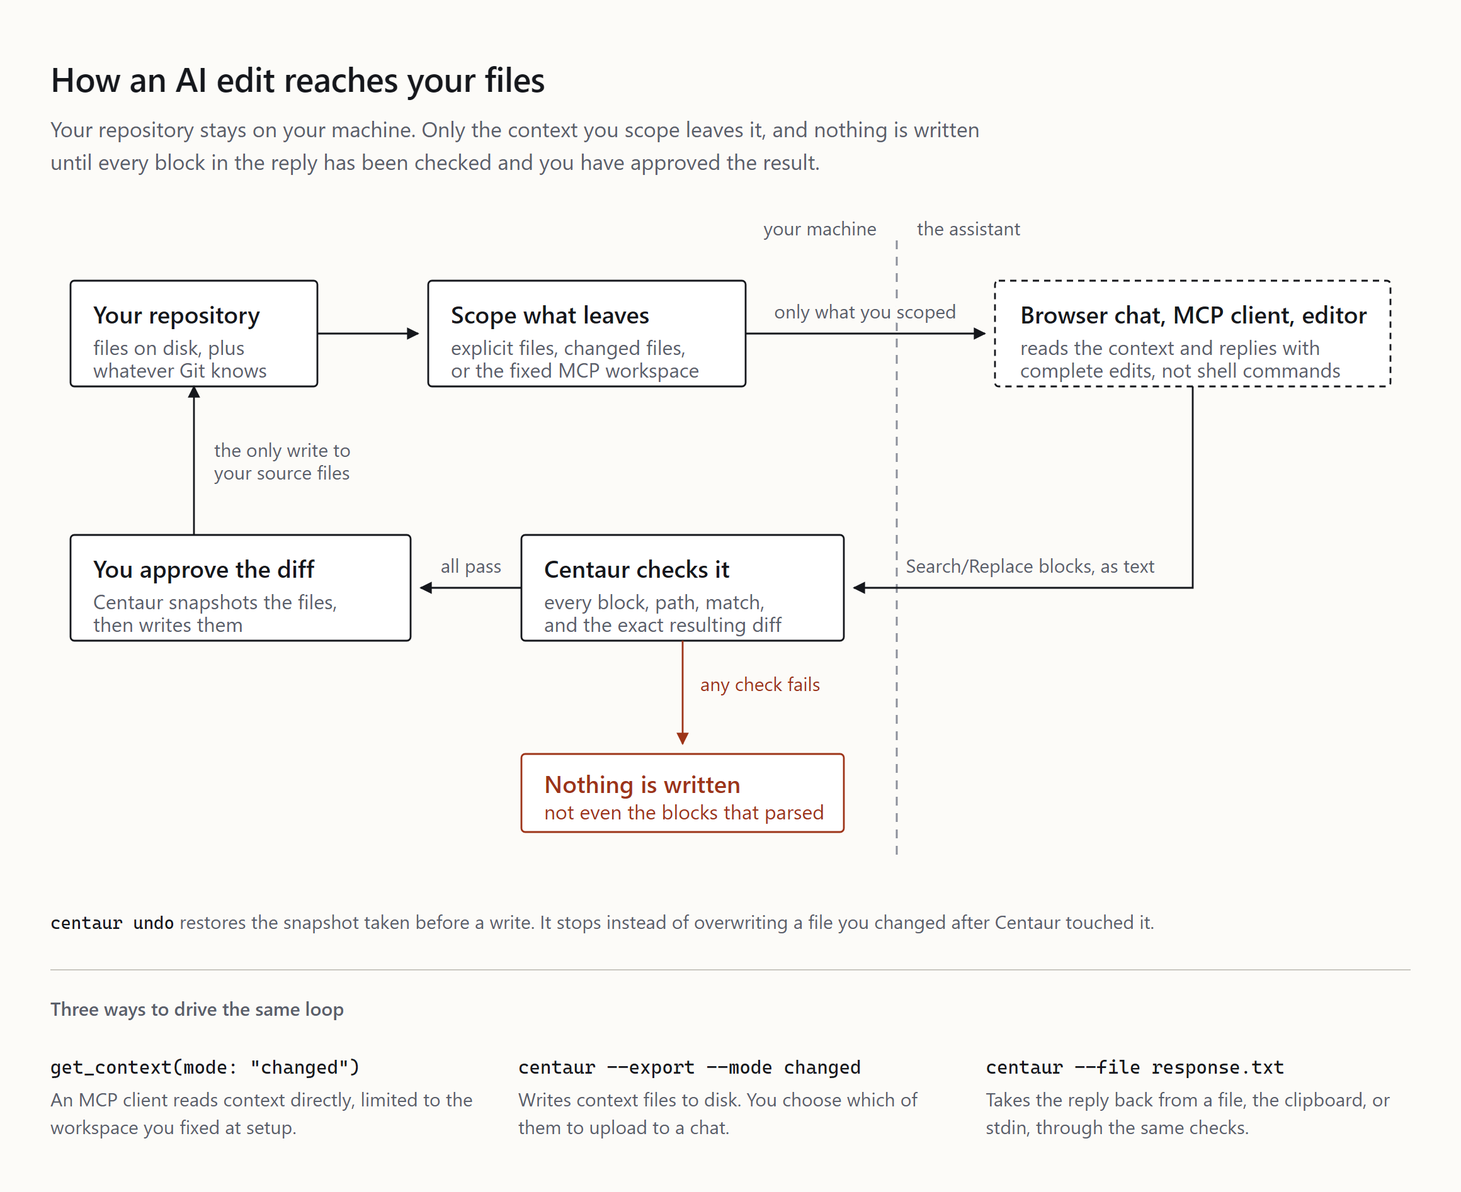
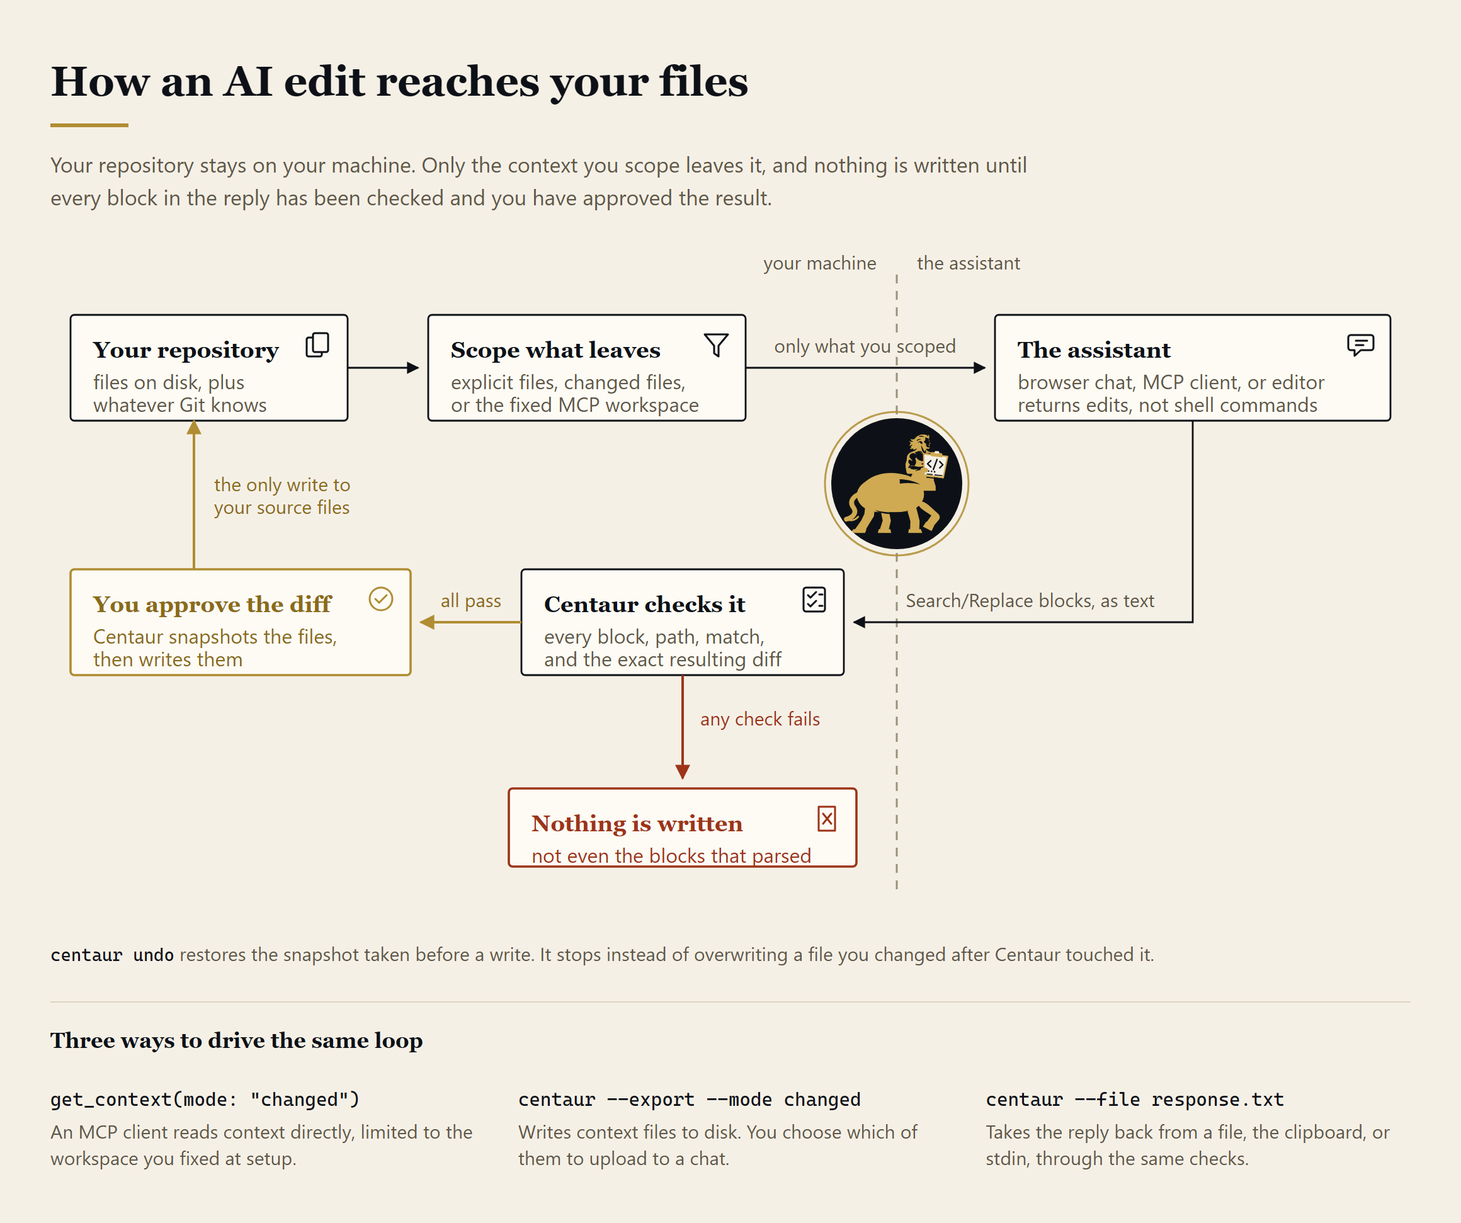
docs: give the workflow figure the project's own palette and mark
The flowchart was correct but anonymous, five identical boxes in system
sans that could have belonged to any repository. It now uses the paper,
ink, and gold already defined in centaur_logo.svg, sets headings in a
serif, and carries a glyph per node so the roles read at a glance.

Colour now means something. Gold marks the path you authorised, ending in
the write back to your files. Red marks the refused path. The centaur
stands on the trust boundary it checks.

Long titles in a serif overran the corner glyphs, so the assistant node
keeps its client list in the sub lines and two boxes grew to fit.

diff --git a/docs/visuals/workflow.html b/docs/visuals/workflow.html
@@ -6,12 +6,12 @@
   <style>
     :root {
       color-scheme: light;
-      --paper: #fcfbf8;
-      --ink: #15171c;
-      --muted: #5a606b;
-      --rule: #c9c7c0;
-      --node: #ffffff;
-      --stop: #9d3418;
+      --paper: #f5f0e6;
+      --ink: #0d1117;
+      --muted: #5f5849;
+      --gold: #8a6b18;
+      --rule: #ddd4c0;
+      --serif: Georgia, "Iowan Old Style", "Palatino Linotype", "Book Antiqua", serif;
       --mono: ui-monospace, SFMono-Regular, "Cascadia Mono", Consolas, monospace;
       --sans: ui-sans-serif, system-ui, "Segoe UI", Roboto, Helvetica, Arial, sans-serif;
     }
@@ -26,33 +26,29 @@
       font-family: var(--sans);
     }
 
-    body { padding: 44px 40px 40px; }
+    body { padding: 46px 40px 40px; }
 
     h1 {
-      margin: 0 0 10px;
-      font-size: 27px;
+      margin: 0;
+      font-family: var(--serif);
+      font-size: 33px;
       font-weight: 600;
-      letter-spacing: -0.01em;
+      letter-spacing: -0.005em;
     }
 
+    .rule { width: 62px; height: 3px; margin: 15px 0 16px; background: #b08d33; }
+
     .lede {
-      max-width: 760px;
-      margin: 0 0 26px;
+      max-width: 780px;
+      margin: 0 0 24px;
       color: var(--muted);
       font-size: 17px;
-      line-height: 1.5;
+      line-height: 1.55;
     }
 
     svg { display: block; }
 
-    .note {
-      max-width: 900px;
-      margin: 18px 0 0;
-      color: var(--muted);
-      font-size: 15px;
-      line-height: 1.5;
-    }
-
+    .note { max-width: 920px; margin: 16px 0 0; color: var(--muted); font-size: 15px; line-height: 1.5; }
     .note code { color: var(--ink); font-family: var(--mono); font-size: 14px; }
 
     .ways {
@@ -67,90 +63,174 @@
     .ways h2 {
       grid-column: 1 / -1;
       margin: 0 0 -6px;
-      font-size: 15px;
+      font-family: var(--serif);
+      font-size: 17px;
       font-weight: 600;
-      color: var(--muted);
-    }
-
-    .ways code {
-      display: block;
-      margin-bottom: 6px;
-      font-family: var(--mono);
-      font-size: 15px;
       color: var(--ink);
     }
 
+    .ways code { display: block; margin-bottom: 6px; font-family: var(--mono); font-size: 15px; color: var(--ink); }
     .ways p { margin: 0; color: var(--muted); font-size: 15px; line-height: 1.45; }
+
+    .lg-gold { fill: #d0aa52; }
+    .lg-paper { fill: #f5f0e6; }
+    .lg-ink { fill: #0d1117; }
+    .lg-gold-line { fill: none; stroke: #d0aa52; stroke-linecap: round; stroke-linejoin: round; }
+    .lg-ink-line { fill: none; stroke: #0d1117; stroke-linecap: round; stroke-linejoin: round; }
   </style>
 </head>
 <body>
   <h1>How an AI edit reaches your files</h1>
+  <div class="rule"></div>
   <p class="lede">Your repository stays on your machine. Only the context you scope leaves it, and nothing is written until every block in the reply has been checked and you have approved the result.</p>
 
   <svg width="1080" height="536" viewBox="0 0 1080 536" role="img"
-       aria-label="Flowchart. Your repository feeds a scoping step, which sends chosen context across a trust boundary to the assistant. The assistant returns Search slash Replace blocks as text. Centaur validates every block. If any check fails, nothing is written. If all checks pass, you approve, Centaur snapshots, and only then writes back to the repository.">
+       aria-label="Flowchart. Your repository feeds a scoping step, which sends only the context you chose across a boundary to the assistant. The assistant returns Search slash Replace blocks as text. Centaur checks every block. If any check fails, nothing is written, not even the blocks that parsed. If all checks pass, you approve, Centaur snapshots the files, and that write back to your repository is the only write to your source files.">
     <defs>
       <marker id="arrow" viewBox="0 0 10 10" refX="9" refY="5" markerWidth="7" markerHeight="7" orient="auto-start-reverse">
-        <path d="M 0 0 L 10 5 L 0 10 z" fill="#15171c"/>
+        <path d="M 0 0 L 10 5 L 0 10 z" fill="#0d1117"/>
       </marker>
-      <marker id="arrow-stop" viewBox="0 0 10 10" refX="9" refY="5" markerWidth="7" markerHeight="7" orient="auto-start-reverse">
+      <marker id="arrow-gold" viewBox="0 0 10 10" refX="9" refY="5" markerWidth="6" markerHeight="6" orient="auto-start-reverse">
+        <path d="M 0 0 L 10 5 L 0 10 z" fill="#b08d33"/>
+      </marker>
+      <marker id="arrow-stop" viewBox="0 0 10 10" refX="9" refY="5" markerWidth="6" markerHeight="6" orient="auto-start-reverse">
         <path d="M 0 0 L 10 5 L 0 10 z" fill="#9d3418"/>
       </marker>
     </defs>
-
     <g font-family="ui-sans-serif, system-ui, Segoe UI, Roboto, Helvetica, Arial, sans-serif">
-
-      <line x1="672" y1="24" x2="672" y2="516" stroke="#8d919b" stroke-width="1.5" stroke-dasharray="7 6"/>
-      <text x="656" y="20" text-anchor="end" font-size="15" fill="#5a606b">your machine</text>
-      <text x="688" y="20" font-size="15" fill="#5a606b">the assistant</text>
-
-      <rect x="16" y="56" width="196" height="84" rx="3" fill="#ffffff" stroke="#15171c" stroke-width="1.4"/>
-      <text x="34" y="90" font-size="19" font-weight="600" fill="#15171c">Your repository</text>
-      <text x="34" y="115" font-size="16" fill="#5a606b">files on disk, plus</text>
-      <text x="34" y="133" font-size="16" fill="#5a606b">whatever Git knows</text>
-
-      <line x1="212" y1="98" x2="292" y2="98" stroke="#15171c" stroke-width="1.4" marker-end="url(#arrow)"/>
-
-      <rect x="300" y="56" width="252" height="84" rx="3" fill="#ffffff" stroke="#15171c" stroke-width="1.4"/>
-      <text x="318" y="90" font-size="19" font-weight="600" fill="#15171c">Scope what leaves</text>
-      <text x="318" y="115" font-size="16" fill="#5a606b">explicit files, changed files,</text>
-      <text x="318" y="133" font-size="16" fill="#5a606b">or the fixed MCP workspace</text>
-
-      <line x1="552" y1="98" x2="742" y2="98" stroke="#15171c" stroke-width="1.4" marker-end="url(#arrow)"/>
-      <text x="647" y="86" text-anchor="middle" font-size="15" fill="#5a606b" paint-order="stroke" stroke="#fcfbf8" stroke-width="7">only what you scoped</text>
-
-      <rect x="750" y="56" width="314" height="84" rx="3" fill="#ffffff" stroke="#15171c" stroke-width="1.4" stroke-dasharray="5 4"/>
-      <text x="770" y="90" font-size="19" font-weight="600" fill="#15171c">Browser chat, MCP client, editor</text>
-      <text x="770" y="115" font-size="16" fill="#5a606b">reads the context and replies with</text>
-      <text x="770" y="133" font-size="16" fill="#5a606b">complete edits, not shell commands</text>
-
-      <path d="M 907 140 L 907 300 L 638 300" fill="none" stroke="#15171c" stroke-width="1.4" marker-end="url(#arrow)"/>
-      <text x="778" y="288" text-anchor="middle" font-size="15" fill="#5a606b" paint-order="stroke" stroke="#fcfbf8" stroke-width="7">Search/Replace blocks, as text</text>
-
-      <rect x="374" y="258" width="256" height="84" rx="3" fill="#ffffff" stroke="#15171c" stroke-width="1.4"/>
-      <text x="392" y="292" font-size="19" font-weight="600" fill="#15171c">Centaur checks it</text>
-      <text x="392" y="317" font-size="16" fill="#5a606b">every block, path, match,</text>
-      <text x="392" y="335" font-size="16" fill="#5a606b">and the exact resulting diff</text>
-
-      <line x1="374" y1="300" x2="294" y2="300" stroke="#15171c" stroke-width="1.4" marker-end="url(#arrow)"/>
-      <text x="334" y="288" text-anchor="middle" font-size="15" fill="#5a606b">all pass</text>
-
-      <rect x="16" y="258" width="270" height="84" rx="3" fill="#ffffff" stroke="#15171c" stroke-width="1.4"/>
-      <text x="34" y="292" font-size="19" font-weight="600" fill="#15171c">You approve the diff</text>
-      <text x="34" y="317" font-size="16" fill="#5a606b">Centaur snapshots the files,</text>
-      <text x="34" y="335" font-size="16" fill="#5a606b">then writes them</text>
-
-      <path d="M 114 258 L 114 140" fill="none" stroke="#15171c" stroke-width="1.4" marker-end="url(#arrow)"/>
-      <text x="130" y="196" font-size="15" fill="#5a606b">the only write to</text>
-      <text x="130" y="214" font-size="15" fill="#5a606b">your source files</text>
-
-      <path d="M 502 342 L 502 424" fill="none" stroke="#9d3418" stroke-width="1.4" marker-end="url(#arrow-stop)"/>
+      <line x1="672" y1="24" x2="672" y2="516" stroke="#9a917c" stroke-width="1.5" stroke-dasharray="7 6"/>
+      <text x="656" y="20" text-anchor="end" font-size="15" fill="#5f5849">your machine</text>
+      <text x="688" y="20" font-size="15" fill="#5f5849">the assistant</text>
+      <rect x="16" y="56" width="220" height="84" rx="3" fill="#fdfbf4" stroke="#0d1117" stroke-width="1.4"/>
+      <g transform="translate(202,69)" fill="none" stroke="#0d1117" stroke-width="1.5" stroke-linecap="round" stroke-linejoin="round"><rect x="1.5" y="5" width="12" height="15" rx="1.5"/><rect x="6.5" y="1.5" width="12" height="15" rx="1.5" fill="#fdfbf4"/></g>
+      <text x="34" y="90" font-family="Georgia, Palatino Linotype, Book Antiqua, serif" font-size="18" font-weight="600" fill="#0d1117">Your repository</text>
+      <text x="34" y="115" font-size="16" fill="#5f5849">files on disk, plus</text>
+      <text x="34" y="133" font-size="16" fill="#5f5849">whatever Git knows</text>
+      <line x1="236" y1="98" x2="292" y2="98" stroke="#0d1117" stroke-width="1.4" marker-end="url(#arrow)"/>
+      <rect x="300" y="56" width="252" height="84" rx="3" fill="#fdfbf4" stroke="#0d1117" stroke-width="1.4"/>
+      <g transform="translate(518,69)" fill="none" stroke="#0d1117" stroke-width="1.5" stroke-linecap="round" stroke-linejoin="round"><path d="M1.5 2.5H20L12.5 11.5V20L9 17.5V11.5Z"/></g>
+      <text x="318" y="90" font-family="Georgia, Palatino Linotype, Book Antiqua, serif" font-size="18" font-weight="600" fill="#0d1117">Scope what leaves</text>
+      <text x="318" y="115" font-size="16" fill="#5f5849">explicit files, changed files,</text>
+      <text x="318" y="133" font-size="16" fill="#5f5849">or the fixed MCP workspace</text>
+      <line x1="552" y1="98" x2="742" y2="98" stroke="#0d1117" stroke-width="1.4" marker-end="url(#arrow)"/>
+      <text x="647" y="86" text-anchor="middle" font-size="15" fill="#5f5849" paint-order="stroke" stroke="#f5f0e6" stroke-width="7">only what you scoped</text>
+      <rect x="750" y="56" width="314" height="84" rx="3" fill="#fdfbf4" stroke="#0d1117" stroke-width="1.4"/>
+      <g transform="translate(1030,69)" fill="none" stroke="#0d1117" stroke-width="1.5" stroke-linecap="round" stroke-linejoin="round"><path d="M2.5 3h16a2 2 0 0 1 2 2v8a2 2 0 0 1-2 2h-8l-5 4.5V15h-3a2 2 0 0 1-2-2V5a2 2 0 0 1 2-2z"/><path d="M6.5 7.5h9M6.5 11h6"/></g>
+      <text x="768" y="90" font-family="Georgia, Palatino Linotype, Book Antiqua, serif" font-size="18" font-weight="600" fill="#0d1117">The assistant</text>
+      <text x="768" y="115" font-size="16" fill="#5f5849">browser chat, MCP client, or editor</text>
+      <text x="768" y="133" font-size="16" fill="#5f5849">returns edits, not shell commands</text>
+      <path d="M 907 140 L 907 300 L 638 300" fill="none" stroke="#0d1117" stroke-width="1.4" marker-end="url(#arrow)"/>
+      <text x="778" y="288" text-anchor="middle" font-size="15" fill="#5f5849" paint-order="stroke" stroke="#f5f0e6" stroke-width="7">Search/Replace blocks, as text</text>
+      <rect x="374" y="258" width="256" height="84" rx="3" fill="#fdfbf4" stroke="#0d1117" stroke-width="1.4"/>
+      <g transform="translate(596,271)" fill="none" stroke="#0d1117" stroke-width="1.5" stroke-linecap="round" stroke-linejoin="round"><rect x="2" y="1.5" width="17" height="19" rx="2"/><path d="M5.5 7.5l2 2 4.5-4.5M5.5 14.5l2 2 4.5-4.5M14.5 7h2.5M14.5 16h2.5"/></g>
+      <text x="392" y="292" font-family="Georgia, Palatino Linotype, Book Antiqua, serif" font-size="18" font-weight="600" fill="#0d1117">Centaur checks it</text>
+      <text x="392" y="317" font-size="16" fill="#5f5849">every block, path, match,</text>
+      <text x="392" y="335" font-size="16" fill="#5f5849">and the exact resulting diff</text>
+      <line x1="374" y1="300" x2="294" y2="300" stroke="#b08d33" stroke-width="2" marker-end="url(#arrow-gold)"/>
+      <text x="334" y="288" text-anchor="middle" font-size="15" fill="#8a6b18" paint-order="stroke" stroke="#f5f0e6" stroke-width="7">all pass</text>
+      <rect x="16" y="258" width="270" height="84" rx="3" fill="#fdfbf4" stroke="#b08d33" stroke-width="1.8"/>
+      <g transform="translate(252,271)" fill="none" stroke="#b08d33" stroke-width="1.5" stroke-linecap="round" stroke-linejoin="round"><circle cx="10.5" cy="10.5" r="9"/><path d="M6 10.5l3 3 6-6"/></g>
+      <text x="34" y="292" font-family="Georgia, Palatino Linotype, Book Antiqua, serif" font-size="18" font-weight="600" fill="#8a6b18">You approve the diff</text>
+      <text x="34" y="317" font-size="16" fill="#8a6b18">Centaur snapshots the files,</text>
+      <text x="34" y="335" font-size="16" fill="#8a6b18">then writes them</text>
+      <path d="M 114 258 L 114 140" fill="none" stroke="#b08d33" stroke-width="2" marker-end="url(#arrow-gold)"/>
+      <text x="130" y="196" font-size="15" fill="#8a6b18">the only write to</text>
+      <text x="130" y="214" font-size="15" fill="#8a6b18">your source files</text>
+      <path d="M 502 342 L 502 424" fill="none" stroke="#9d3418" stroke-width="2" marker-end="url(#arrow-stop)"/>
       <text x="516" y="382" font-size="15" fill="#9d3418">any check fails</text>
+      <rect x="364" y="432" width="276" height="62" rx="3" fill="#fdfbf4" stroke="#9d3418" stroke-width="1.8"/>
+      <g transform="translate(606,445)" fill="none" stroke="#9d3418" stroke-width="1.5" stroke-linecap="round" stroke-linejoin="round"><path d="M4 1.5h13v19H4z"/><path d="M7.5 7l6.5 8M14 7l-6.5 8"/></g>
+      <text x="382" y="466" font-family="Georgia, Palatino Linotype, Book Antiqua, serif" font-size="18" font-weight="600" fill="#9d3418">Nothing is written</text>
+      <text x="382" y="491" font-size="16" fill="#9d3418">not even the blocks that parsed</text>
+      <clipPath id="seal"><circle cx="672" cy="190" r="52"/></clipPath>
+      <circle cx="672" cy="190" r="52" fill="#0d1117"/>
+      <circle cx="672" cy="190" r="57" fill="none" stroke="#b08d33" stroke-width="1.5" opacity=".85"/>
+      <g clip-path="url(#seal)"><g transform="translate(672,190) scale(0.14) translate(-476.5,-380.4)">
+  
+  
+  <defs>
+    <style>
+      .lg-gold{fill:#d0aa52} .lg-paper{fill:#f5f0e6} .lg-ink{fill:#0d1117}
+      .lg-gold-line{fill:none;stroke:#d0aa52;stroke-linecap:round;stroke-linejoin:round}
+      .lg-ink-line{fill:none;stroke:#0d1117;stroke-linecap:round;stroke-linejoin:round}
+    </style>
+  </defs>
 
-      <rect x="374" y="432" width="256" height="62" rx="3" fill="#ffffff" stroke="#9d3418" stroke-width="1.4"/>
-      <text x="392" y="463" font-size="19" font-weight="600" fill="#9d3418">Nothing is written</text>
-      <text x="392" y="484" font-size="16" fill="#9d3418">not even the blocks that parsed</text>
+  <!-- Native SVG only: no embedded images. -->
+  
+  
 
+  <!-- Horse half: redrawn as clean, intentional geometry. -->
+  <path d="M303 431C234 438 203 478 231 516C251 542 233 570 191 582" class="lg-gold-line" stroke-width="27"/>
+  <path d="M188 582c26 12 52 6 70-14" class="lg-gold-line" stroke-width="10"/>
+
+  <path class="lg-gold" d="
+    M299 369
+    C346 329 414 313 487 323
+    C551 331 598 357 620 397
+    C638 430 634 468 611 497
+    C585 526 543 541 491 542
+    L374 542
+    C323 541 282 520 262 486
+    C238 445 251 401 299 369Z"/>
+
+  <!-- Human half: simplified native vector derived from the visual reference. -->
+  <path d="M 651.1 100.7 L 655.9 109.4 L 655.0 113.2 L 646.3 105.5 L 636.7 101.7 L 614.6 101.7 L 596.4 109.4 L 586.8 116.1 L 577.2 117.0 L 584.9 118.0 L 585.8 119.9 L 574.3 128.6 L 559.9 129.5 L 554.2 124.7 L 557.0 133.4 L 560.9 137.2 L 568.6 139.1 L 568.6 142.0 L 555.1 143.0 L 547.4 137.2 L 548.4 143.0 L 557.0 149.7 L 550.3 159.3 L 549.4 167.9 L 556.1 162.2 L 561.8 160.2 L 566.6 161.2 L 559.0 167.0 L 554.2 174.6 L 558.0 172.7 L 559.9 174.6 L 550.3 181.4 L 554.2 183.3 L 563.8 183.3 L 570.5 180.4 L 571.4 183.3 L 569.5 185.2 L 571.4 188.1 L 581.0 186.2 L 587.8 181.4 L 590.6 183.3 L 581.0 192.9 L 551.3 204.4 L 540.7 214.0 L 535.0 224.6 L 533.0 245.7 L 526.3 268.7 L 526.3 283.1 L 532.1 316.7 L 537.8 325.4 L 562.8 324.4 L 564.7 328.2 L 561.8 330.2 L 563.8 329.2 L 564.7 331.1 L 559.9 334.0 L 559.0 341.7 L 552.2 341.7 L 551.3 348.4 L 542.6 349.4 L 539.8 353.2 L 536.9 352.2 L 536.9 355.1 L 533.0 357.0 L 522.5 357.0 L 521.5 359.0 L 515.8 357.0 L 515.8 420.4 L 697.2 420.4 L 697.2 395.4 L 686.6 360.9 L 686.6 328.2 L 638.6 323.4 L 632.9 319.6 L 632.9 313.8 L 639.6 304.2 L 640.6 307.1 L 635.8 316.7 L 639.6 319.6 L 680.9 322.5 L 701.0 326.3 L 709.7 326.3 L 728.9 321.5 L 737.5 311.0 L 740.4 295.6 L 733.7 285.0 L 733.7 280.2 L 748.1 245.7 L 748.1 240.9 L 727.0 238.0 L 723.1 235.1 L 721.2 230.3 L 706.8 228.4 L 697.2 215.0 L 688.6 208.2 L 656.9 198.6 L 645.4 190.0 L 642.5 184.2 L 643.4 182.3 L 657.8 183.3 L 662.6 179.4 L 662.6 158.3 L 667.4 153.5 L 661.7 141.0 L 661.7 133.4 L 656.9 124.7 L 660.7 119.9 L 661.7 111.3 L 658.8 105.5 Z
+M 707.8 285.0 L 713.5 283.1 L 721.2 284.1 L 731.8 287.9 L 734.6 291.8 L 734.6 297.5 L 727.9 311.0 L 722.2 316.7 L 716.4 316.7 L 706.8 311.9 L 699.1 304.2 L 700.1 301.4 L 703.9 302.3 L 718.3 311.9 L 713.5 307.1 L 703.0 301.4 L 702.0 297.5 L 707.8 296.6 L 722.2 304.2 L 716.4 299.4 L 703.9 294.6 L 705.8 290.8 L 714.5 290.8 L 726.0 295.6 L 720.2 291.8 L 708.7 288.9 L 706.8 287.0 Z
+M 638.6 260.1 L 638.6 262.0 L 629.0 274.5 L 615.6 269.7 L 615.6 267.8 L 618.5 265.8 L 636.7 259.1 Z
+M 688.6 239.0 L 693.4 235.1 L 699.1 235.1 L 722.2 240.9 L 725.0 244.7 L 721.2 247.6 L 710.6 247.6 L 694.3 244.7 L 690.5 242.8 Z
+M 616.6 164.1 L 634.8 200.6 L 636.7 190.0 L 639.6 190.0 L 642.5 193.8 L 642.5 204.4 L 639.6 209.2 L 662.6 206.3 L 679.9 215.9 L 684.7 220.7 L 686.6 225.5 L 689.5 227.4 L 693.4 227.4 L 698.2 224.6 L 701.0 227.4 L 701.0 229.4 L 689.5 231.3 L 677.0 230.3 L 670.3 233.2 L 666.5 239.0 L 664.6 249.5 L 662.6 251.4 L 659.8 251.4 L 650.2 247.6 L 650.2 240.9 L 648.2 235.1 L 640.6 224.6 L 644.4 234.2 L 644.4 246.6 L 641.5 249.5 L 632.9 252.4 L 617.5 252.4 L 603.1 247.6 L 592.6 239.0 L 587.8 231.3 L 581.0 239.0 L 585.8 250.5 L 585.8 263.0 L 578.2 278.3 L 574.3 279.3 L 560.9 277.4 L 551.3 281.2 L 548.4 284.1 L 558.0 280.2 L 575.3 280.2 L 598.3 285.0 L 611.8 285.0 L 621.4 282.2 L 625.2 283.1 L 631.0 278.3 L 650.2 251.4 L 656.9 251.4 L 662.6 255.3 L 660.7 261.0 L 653.0 259.1 L 649.2 260.1 L 654.0 260.1 L 666.5 266.8 L 672.2 271.6 L 672.2 274.5 L 669.4 275.4 L 662.6 270.6 L 655.0 268.7 L 655.9 270.6 L 663.6 273.5 L 669.4 279.3 L 669.4 281.2 L 666.5 282.2 L 657.8 277.4 L 648.2 276.4 L 657.8 279.3 L 662.6 284.1 L 662.6 286.0 L 659.8 287.0 L 654.0 284.1 L 649.2 284.1 L 642.5 291.8 L 633.8 296.6 L 586.8 308.1 L 583.0 308.1 L 582.0 306.2 L 596.4 300.4 L 603.1 299.4 L 569.5 300.4 L 555.1 296.6 L 552.2 293.7 L 553.2 291.8 L 559.9 290.8 L 553.2 289.8 L 543.6 292.7 L 542.6 287.9 L 544.6 282.2 L 551.3 274.5 L 551.3 272.6 L 542.6 261.0 L 542.6 249.5 L 547.4 244.7 L 553.2 244.7 L 563.8 252.4 L 562.8 246.6 L 551.3 234.2 L 548.4 228.4 L 549.4 219.8 L 555.1 212.1 L 562.8 208.2 L 571.4 207.3 L 591.6 214.0 L 579.1 206.3 L 578.2 204.4 L 587.8 199.6 L 600.2 195.8 L 610.8 195.8 L 623.3 202.5 L 622.3 204.4 L 600.2 204.4 L 599.3 203.4 L 615.6 206.3 L 633.8 212.1 L 620.4 192.9 L 614.6 166.0 Z
+M 595.4 146.8 L 607.0 139.1 L 614.6 139.1 L 622.3 146.8 L 623.3 149.7 L 620.4 150.6 L 610.8 143.0 L 622.3 153.5 L 622.3 155.4 L 619.4 156.4 L 612.7 152.6 L 607.0 146.8 L 607.0 143.9 L 597.4 148.7 Z
+M 614.6 127.6 L 611.8 130.5 L 602.2 132.4 L 592.6 137.2 L 588.7 136.2 L 592.6 131.4 L 600.2 127.6 Z
+M 637.7 117.0 L 653.0 122.8 L 659.8 132.4 L 658.8 139.1 L 662.6 143.0 L 663.6 152.6 L 661.7 154.5 L 655.9 154.5 L 660.7 155.4 L 661.7 159.3 L 655.0 160.2 L 659.8 160.2 L 660.7 162.2 L 658.8 164.1 L 653.0 164.1 L 658.8 166.0 L 661.7 168.9 L 661.7 172.7 L 659.8 174.6 L 655.9 175.6 L 647.3 171.8 L 643.4 167.9 L 642.5 153.5 L 631.9 147.8 L 631.0 142.0 L 638.6 132.4 L 638.6 122.8 L 636.7 119.0 Z
+M 602.2 112.2 L 607.9 109.4 L 621.4 109.4 L 631.0 112.2 L 631.9 114.2 L 603.1 114.2 Z" class="lg-gold" fill-rule="evenodd"/>
+
+  <!-- subtle cut at the waist so the centaur join reads clearly -->
+  <path class="lg-ink" d="M493 355c43 1 82 11 117 30-35-8-74-10-116-5Z"/>
+
+  <!-- four readable horse legs -->
+  <path class="lg-gold" d="M300 490h55l-8 75-29 47-20 34h-63l39-55 19-39Z"/>
+  <path class="lg-gold" d="M231 638h74l-8 22h-84Z"/>
+
+  <path class="lg-gold" d="M382 516h47l14 75-13 55h-51l18-57Z"/>
+  <path class="lg-gold" d="M375 638h65l5 22h-76Z"/>
+
+  <path class="lg-gold" d="M538 512h48l20 79-2 55h-52l2-52-18-63Z"/>
+  <path class="lg-gold" d="M545 638h68l8 22h-79Z"/>
+
+  <path class="lg-gold" d="
+    M590 479
+    C615 476 638 484 658 503
+    L711 551
+    C723 562 723 576 714 587
+    L684 622
+    L645 600
+    L673 561
+    L631 533
+    C609 519 594 500 590 479Z"/>
+  <path class="lg-gold" d="M644 596l45 22-15 31-49-25Z"/>
+
+  <path class="lg-ink" d="M354 530c59 17 133 18 191 2-38 25-145 31-191-2Z"/>
+
+  <!-- Clipboard face rebuilt as clean geometry, with code as the visual focal point. -->
+  <g id="code-clipboard">
+    <path d="M629 211L765 226L740 347L632 331Z" class="lg-paper" stroke="#d0aa52" stroke-width="8" stroke-linejoin="round"/>
+    <path d="M679 201L727 207Q737 208 735 219L733 231L670 224L671 212Q672 201 679 201Z" class="lg-gold"/>
+    <rect x="691" y="196" width="26" height="13" rx="5" class="lg-paper" transform="rotate(6 704 203)"/>
+
+    <path d="M670 250l-19 18 19 18M720 255l18 18-18 18M705 243l-21 57" class="lg-ink-line" stroke-width="8"/>
+    <circle cx="657" cy="309" r="4.5" class="lg-ink"/>
+    <circle cx="674" cy="311" r="4.5" class="lg-ink"/>
+    <circle cx="691" cy="313" r="4.5" class="lg-ink"/>
+    <path d="M649 326l29 3M693 331l40 4M647 344l55 6M716 351l16 2" class="lg-ink-line" stroke-width="6"/>
+
+    <!-- restored hand overlap -->
+    <path d="M615 291c15-6 30-2 42 9l-10 18c-15-5-29-4-44 2Z" class="lg-gold"/>
+  </g>
+
+  
+
+</g></g>
     </g>
   </svg>
 

diff --git a/docs/visuals/README.md b/docs/visuals/README.md
@@ -6,6 +6,10 @@ The README visuals should show real product behavior, stay readable at GitHub's 
 
 `workflow.html` is the source for `../screenshots/workflow_overview.png`.
 
+It uses the project palette and carries a copy of the centaur from `centaur_logo.svg`
+inline, so the page needs no network and no build step. If the logo art changes, that
+copy has to be updated by hand.
+
 1. Open `workflow.html` in Chromium.
 2. Set the viewport width to 1160 at device scale 2, so the capture survives being
    displayed at the 900 pixel width the README uses.
